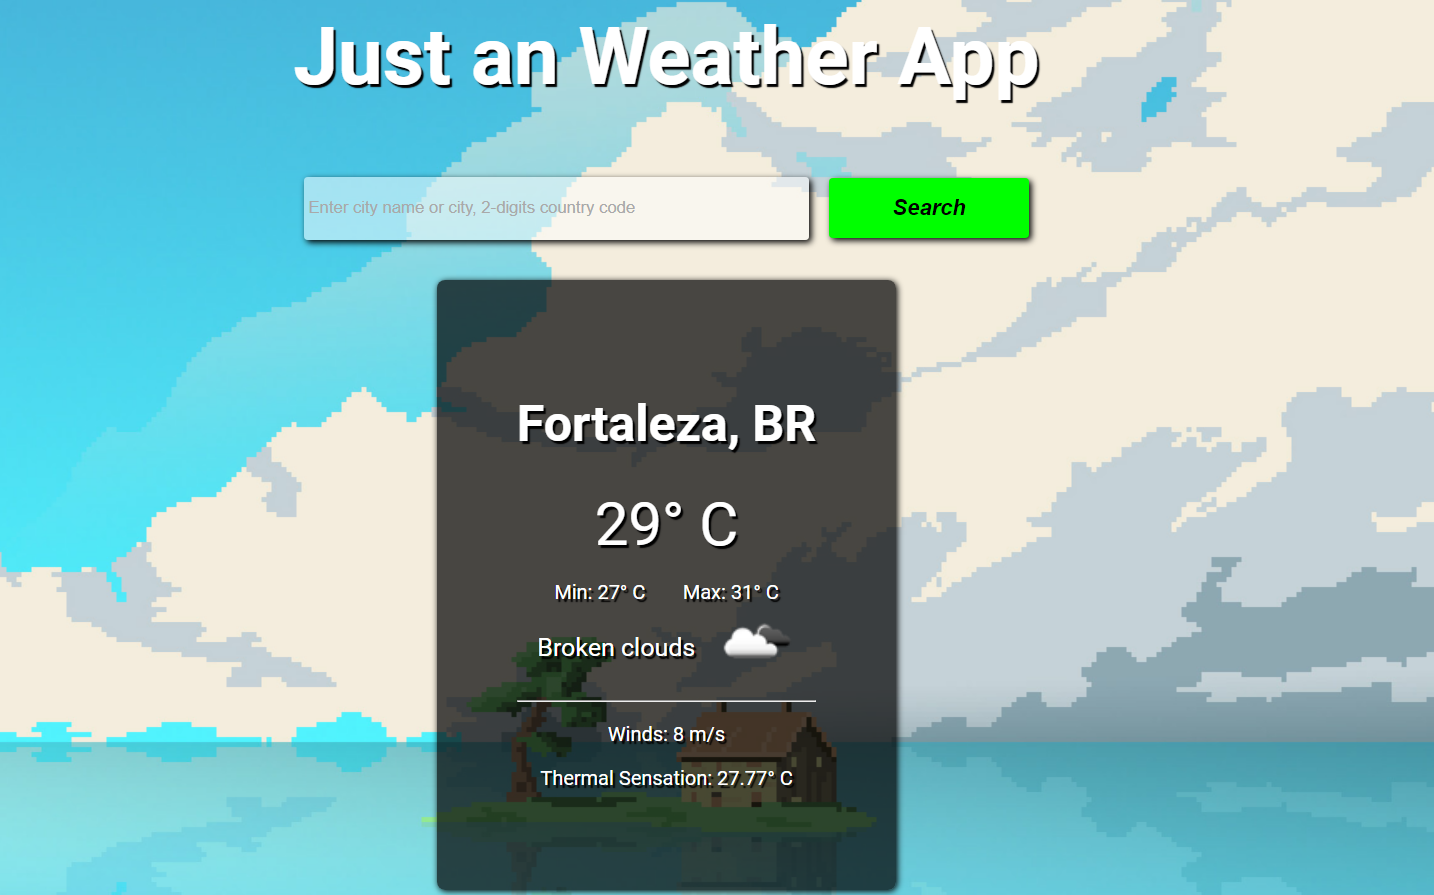
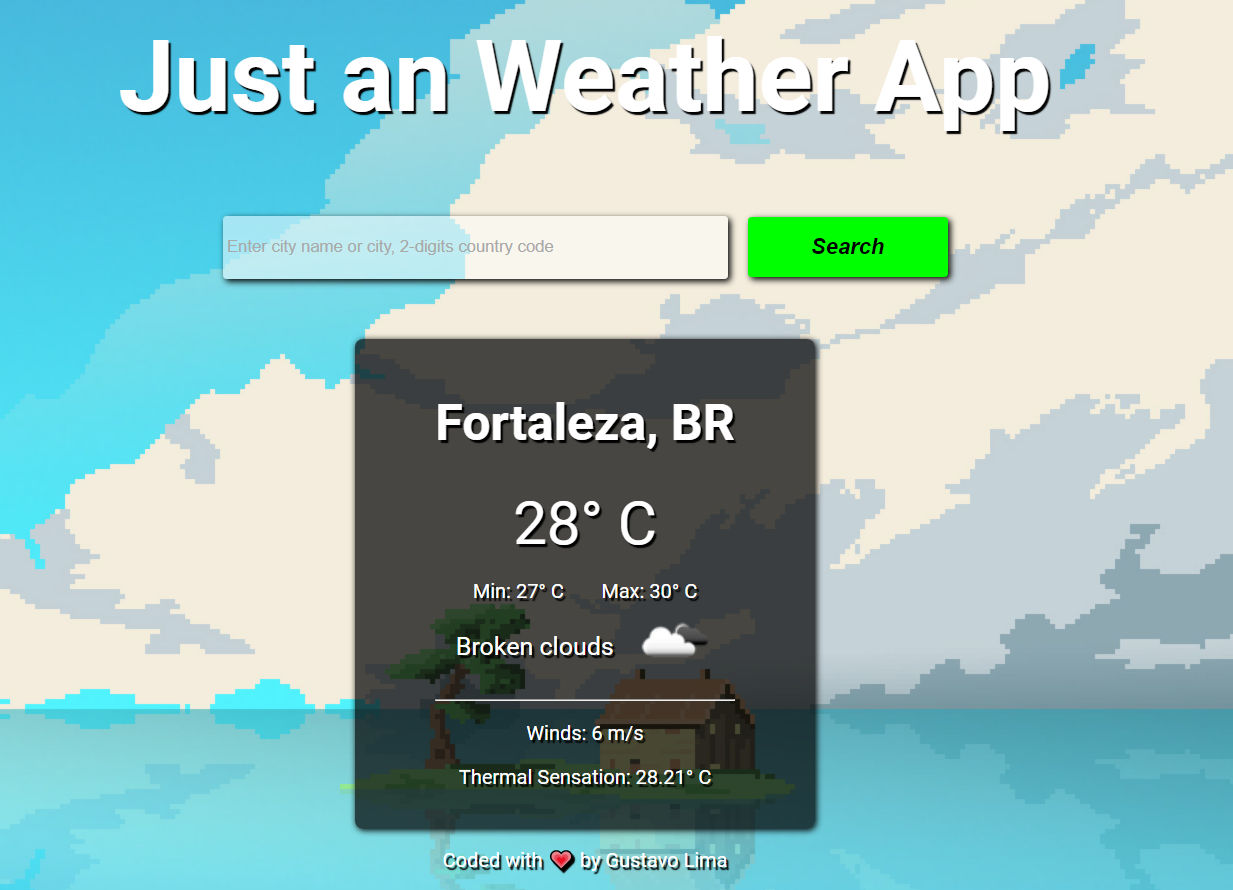
1. adicionado footer. 2. Corrigido falhas no layout em modo mobile. 3. ajustado input e botão de busca no modo desktop e mobile. 4. Adicionado segunda imagem de readme

diff --git a/styles/style.scss b/styles/style.scss
@@ -4,6 +4,7 @@ $input-color: #ddd;
 $placeholder-color: #a9a9a9;
 $button-color: #00ff00;
 $button-color-hover: #00d200;
+$card-color: rgba(255, 255, 255, 0.5);
 
 body {
     background-image: url("../assets/img/default.jpg");
@@ -21,20 +22,24 @@ body {
     padding: 0;
     margin: 0;
 
-    h1 {
+
+    #title {
         font-size: 4rem;
+        font-size: 5rem;
+        text-align: center;
+        margin: 4rem 1rem;
+        
     }
 
     #searchContainer {
-        margin-top: 1rem;
         display: flex;
+        flex-direction: column;
         align-items: center;
         justify-content: center;
-
         input {
             margin-right: 1rem;
             width: 25rem;
-            background-color: rgba(255, 255, 255, 0.5);
+            background-color: $card-color;
             border: none;
 
             &::placeholder {
@@ -57,29 +62,26 @@ body {
                 transform: scale(1.2);
                 margin-left: 2rem;
             }
-
         }
+
 
         .searchControl {
             box-shadow: 2px 2px 5px $secondary-color;
             border: none;
             border-radius: 0.2rem;
             height: 3rem;
-
+            margin-bottom: 2rem;
         }
 
     }
 
     #weatherContainer {
-        margin-top: 2rem;
+        margin-top: 1rem;
         background-color: rgba($color: $secondary-color, $alpha: 0.70);
         box-shadow: 1px 1px 5px $secondary-color;
-        padding: 4rem;
+        padding: 1rem 4rem;
         border-radius: 0.4rem;
         visibility: hidden;
-        display: flex;
-        align-items: center;
-        justify-content: center;
         text-align: center;
         margin-bottom: 1rem;
 
@@ -99,9 +101,6 @@ body {
                 font-size: 3rem;
             }
 
-
-       
-
         #weatherMain {
             display: flex;
             flex-direction: row;
@@ -119,4 +118,21 @@ body {
         }
     }
 
+    
+
+    footer{
+        bottom: 0;
+        margin-bottom: 1rem;
+    }
+
 }
+
+@media only screen and (min-width: 750px) {
+    body #searchContainer {
+        flex-direction: row;
+    }
+
+    footer {
+        position: absolute;
+    }
+  }

diff --git a/styles/style.css b/styles/style.css
@@ -25,15 +25,21 @@ body {
   margin: 0;
 }
 
-body h1 {
+body #title {
   font-size: 4rem;
+  font-size: 5rem;
+  text-align: center;
+  margin: 4rem 1rem;
 }
 
 body #searchContainer {
-  margin-top: 1rem;
   display: -webkit-box;
   display: -ms-flexbox;
   display: flex;
+  -webkit-box-orient: vertical;
+  -webkit-box-direction: normal;
+      -ms-flex-direction: column;
+          flex-direction: column;
   -webkit-box-align: center;
       -ms-flex-align: center;
           align-items: center;
@@ -93,25 +99,17 @@ body #searchContainer .searchControl {
   border: none;
   border-radius: 0.2rem;
   height: 3rem;
+  margin-bottom: 2rem;
 }
 
 body #weatherContainer {
-  margin-top: 2rem;
+  margin-top: 1rem;
   background-color: rgba(0, 0, 0, 0.7);
   -webkit-box-shadow: 1px 1px 5px black;
           box-shadow: 1px 1px 5px black;
-  padding: 4rem;
+  padding: 1rem 4rem;
   border-radius: 0.4rem;
   visibility: hidden;
-  display: -webkit-box;
-  display: -ms-flexbox;
-  display: flex;
-  -webkit-box-align: center;
-      -ms-flex-align: center;
-          align-items: center;
-  -webkit-box-pack: center;
-      -ms-flex-pack: center;
-          justify-content: center;
   text-align: center;
   margin-bottom: 1rem;
 }
@@ -164,5 +162,22 @@ body #weatherContainer #weatherDescription #documentIconImg {
 
 body #weatherContainer .bottomDetails {
   margin: 1rem;
+}
+
+body footer {
+  bottom: 0;
+  margin-bottom: 1rem;
+}
+
+@media only screen and (min-width: 750px) {
+  body #searchContainer {
+    -webkit-box-orient: horizontal;
+    -webkit-box-direction: normal;
+        -ms-flex-direction: row;
+            flex-direction: row;
+  }
+  footer {
+    position: absolute;
+  }
 }
 /*# sourceMappingURL=style.css.map */

diff --git a/index.html b/index.html
@@ -1,5 +1,6 @@
 <!DOCTYPE html>
 <html lang="pt_br">
+
 <head>
     <meta charset="UTF-8">
     <meta name="viewport" content="width=device-width, initial-scale=1.0">
@@ -7,23 +8,26 @@
     <link rel="stylesheet" href="styles/style.css">
     <title>Weather App</title>
 </head>
+
 <body>
-    
-    <h1>Just an Weather App</h1>
+
+
+    <h1 id="title">Just an Weather App</h1>
     <div id="searchContainer">
-        <input class="searchControl"  type="text" placeholder="Enter city name or city, 2-digits country code" id="searchInput">
+        <input class="searchControl" type="text" placeholder="Enter city name or city, 2-digits country code"
+            id="searchInput">
         <button class="searchControl" type="button" id="searchBtn">Search</button>
     </div>
 
     <div id="weatherContainer">
-        <div id="weatherDescription">  
+        <div id="weatherDescription">
             <h1 id="cityHeader"></h1>
-                <div id="temperature"></div>
-                <div id="subTemperatures">
-                    <div id="temp_min"></div>
-                    <div id="temp_max"></div>
-                </div>
-                
+            <div id="temperature"></div>
+            <div id="subTemperatures">
+                <div id="temp_min"></div>
+                <div id="temp_max"></div>
+            </div>
+
             <div id="weatherMain">
                 <div id="weatherDescriptionHeader"></div>
                 <div><img src="" id="documentIconImg"></div>
@@ -35,6 +39,10 @@
     </div>
 
 
-<script src="./scripts/script.js"></script>
+
+    <footer>Coded with 💗 by Gustavo Lima</footer>
+
+    <script src="./scripts/script.js"></script>
 </body>
+
 </html>
